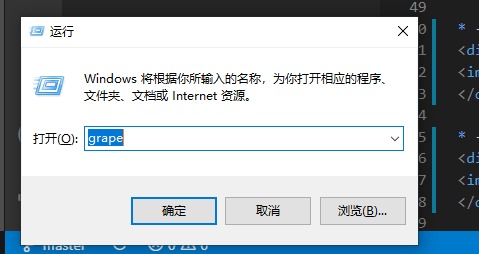
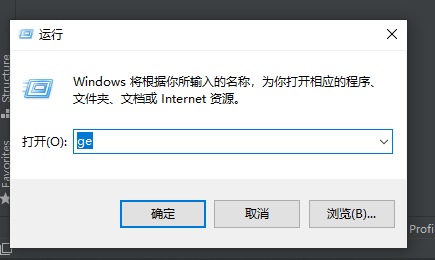
replace mysql with sqlite

diff --git a/README.md b/README.md
@@ -16,11 +16,15 @@
 
 在Windows环境下，克隆项目代码，命令行进入根目录，运行 `start.bat` 文件即可。
 
-在 C:\system 下新建一个批处理文件 ge.bat，输入(注意填写你自己的jar路径)
+为了使用的方便，我们可以将其加入运行栏里，将 `jar` 文件拷贝到 `C:\Windows` 下，并新建一个批处理文件 `ge.bat` 内容如下：
 ```shell
-java -jar D:\code\java\Grape\jar\grape-1.0.0-SNAPSHOT-jar-with-dependencies.jar
+java -jar C:\Windows\grape-1.0.0-SNAPSHOT-jar-with-dependencies.jar
 ```
-保存退出，然后下次使用，只需要快捷键 `Win + R` 然后输入 `ge` 即可快速运行程序，美滋滋
+<div align="center">
+<img src="https://gitee.com/qiu-qian/Grape/raw/master/img/grape08.png" alt="权限管理模块说明"/>
+</div>
+
+下次使用时，只需要快捷键 `Win + R` 然后输入 `ge` 即可快速运行程序，美滋滋
 
 <div align="center">
 <img src="https://gitee.com/qiu-qian/Grape/raw/master/img/grape07.png" alt="权限管理模块说明"/>
